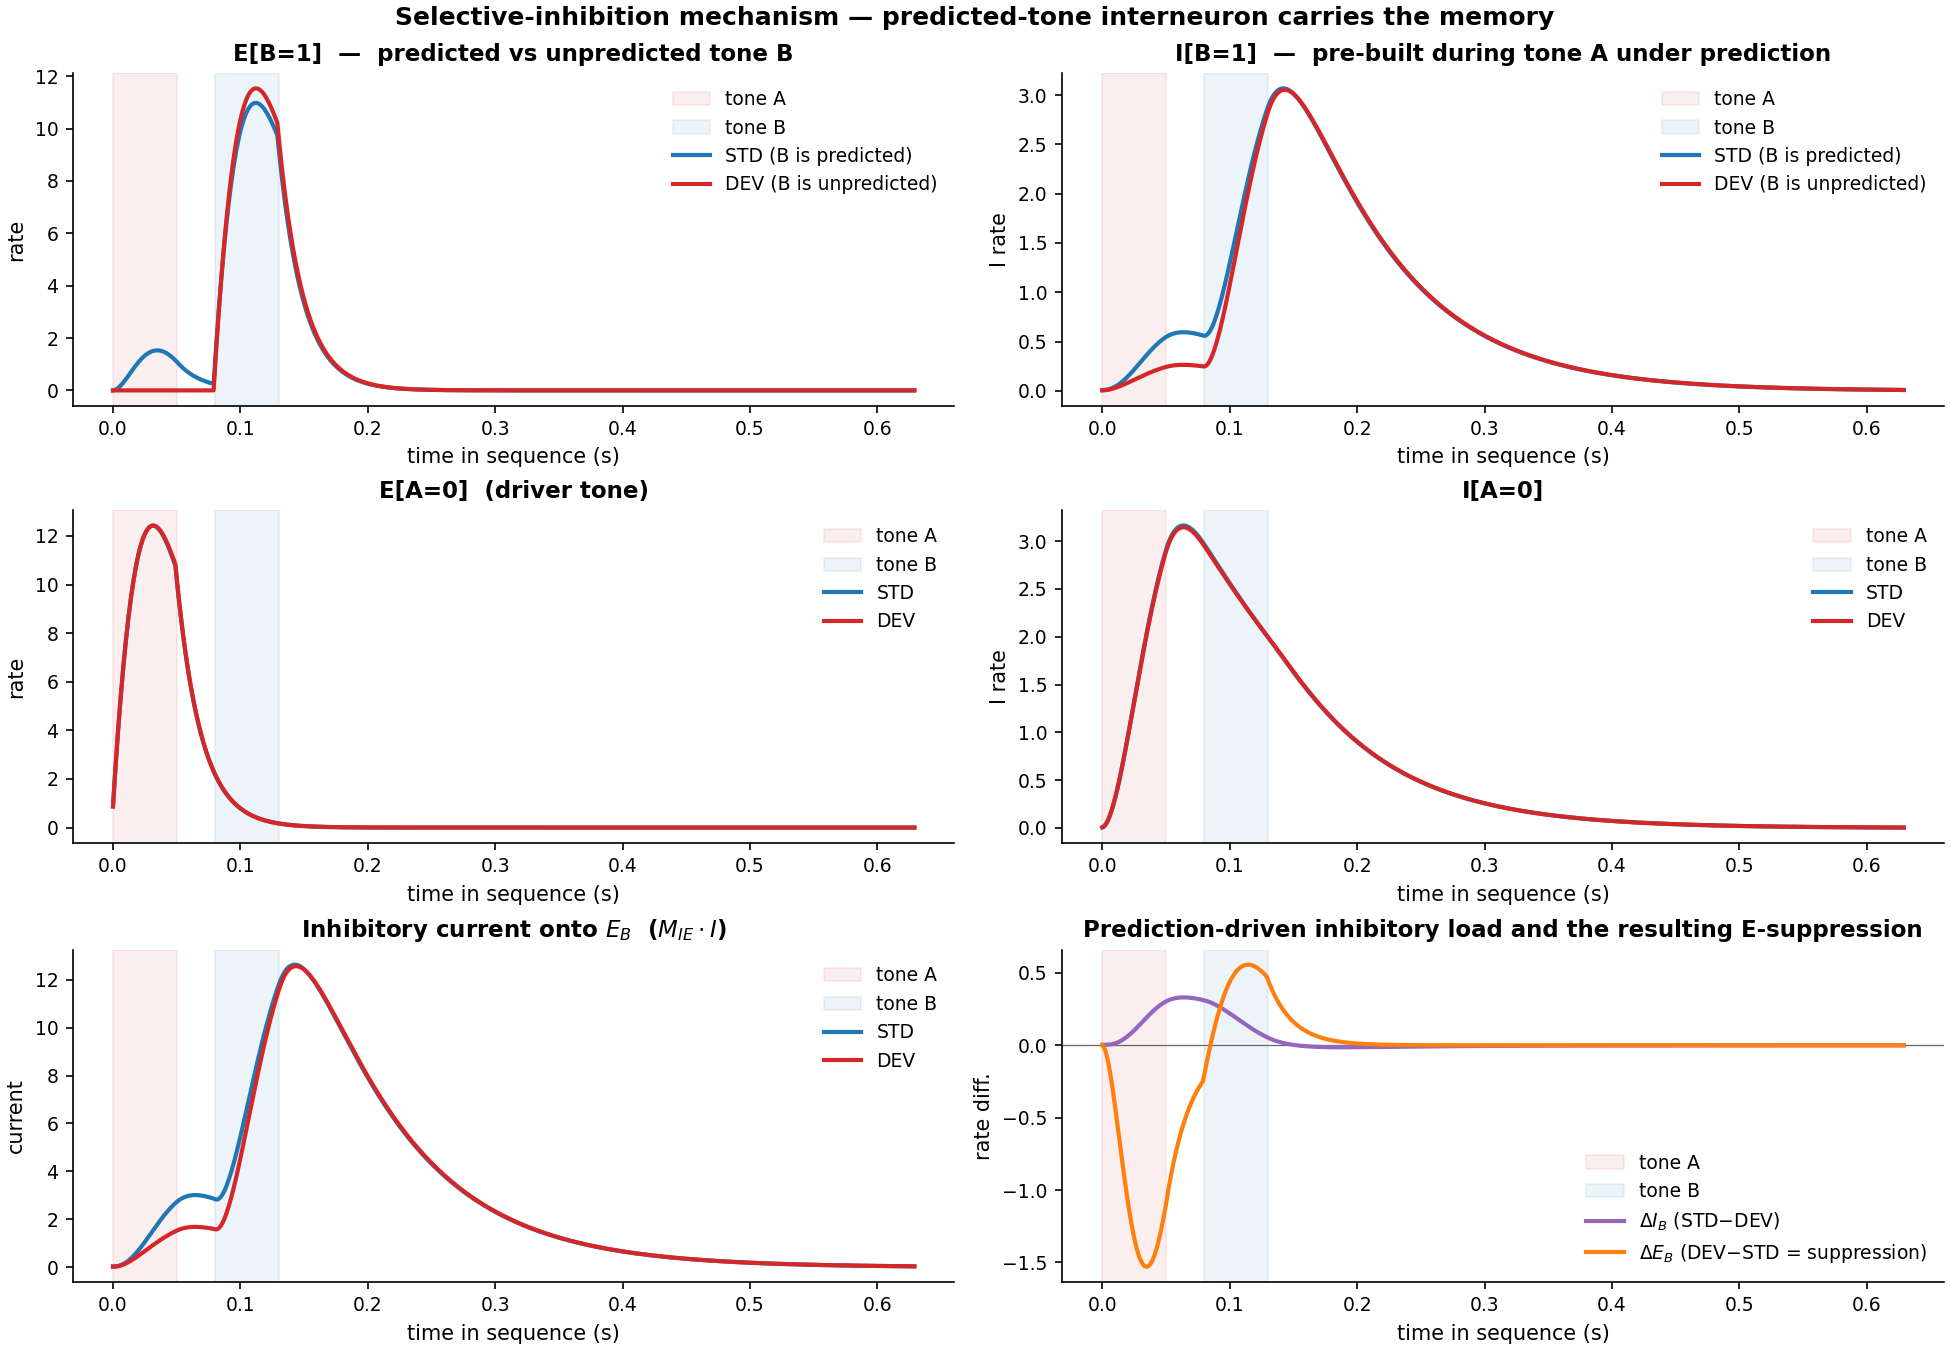
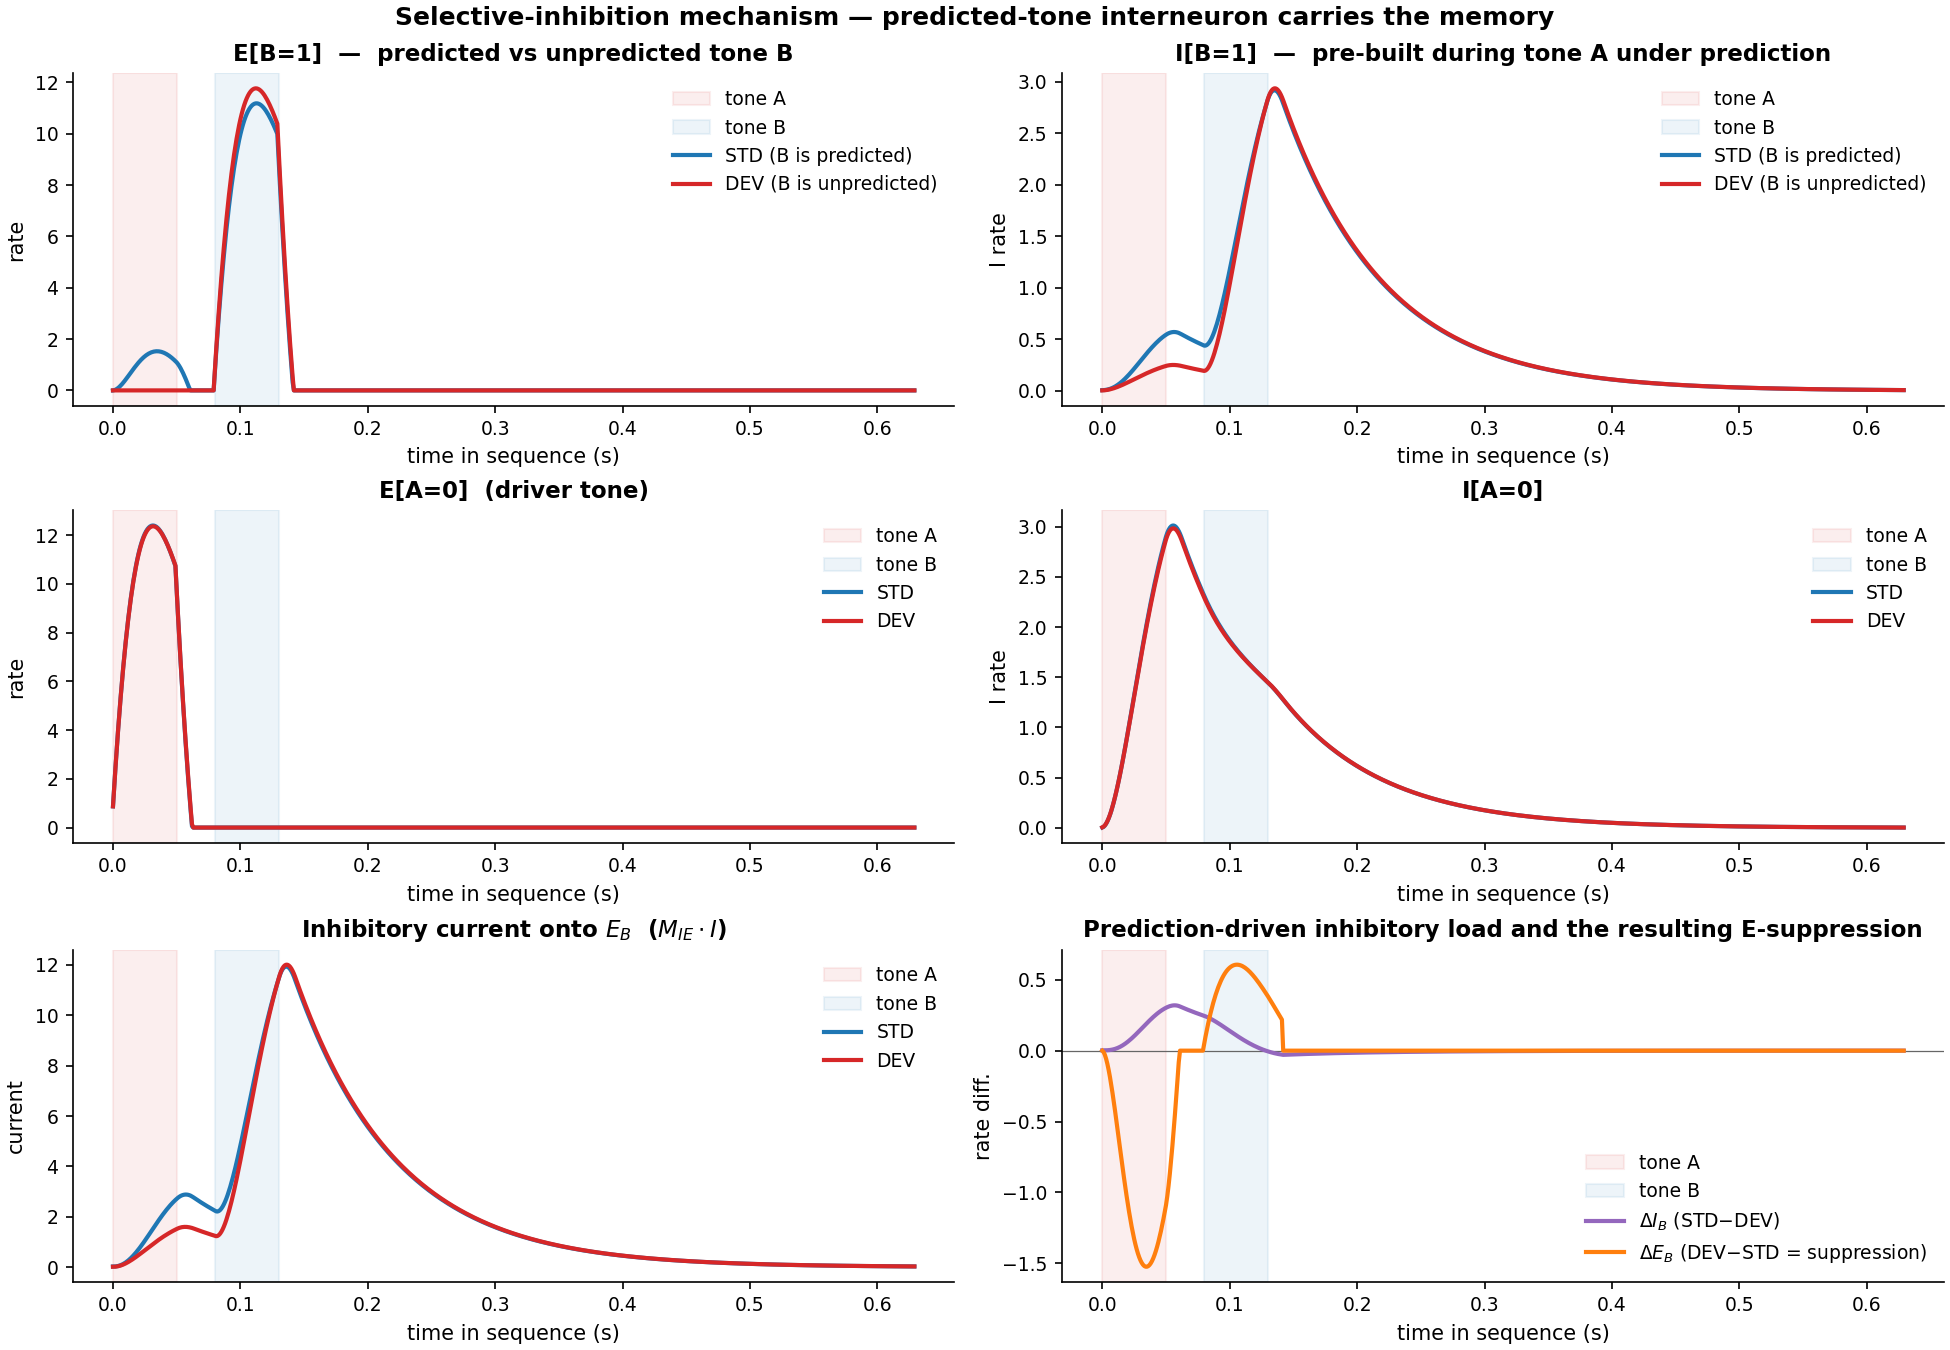
model0: apply the rectifier to the firing rate, not the net input
Move the relu from inside net_E to a post-step clamp on E:
    before:  tau_E dE/dt = -E + relu(tm + rec - inh)
    after:   tau_E dE/dt = -E + (tm + rec - inh);  E := relu(E)

Rationale: in the relu-on-input form, inhibition's effect saturates
once net_E reaches zero -- any further inhibition is wasted, and a
net-negative cell only decays at the fixed leak rate 1/tau_E.  With
the relu on the rate, inhibition enters dE/dt directly, so it acts on
the firing rate itself and its effect is graded all the way down
(strong/shunting inhibition silences a cell faster than the leak --
the biophysically correct behaviour).

No parameter retuning needed.  The two forms are identical whenever
net_E > 0, and the tone-B response sits at net_E > 0 (TC drive
dominates), so the MMN is preserved:

    metric        relu-on-input   relu-on-rate
    peak MMN         +4.8%          +5.0%
    mean MMN         +4.1%          +5.1%
    W[B<-A]           0.25           0.25  (saturates, unchanged)

The mean MMN sharpened slightly because OFF-transients (where
net_E < 0) now decay faster -- the only regime where the two forms
differ.  Steady states are identical by construction.

Change is confined to model0; the I equation is untouched (its relu
is a no-op since M_EI @ E >= 0 always).

diff --git a/model0/model.py b/model0/model.py
@@ -15,8 +15,17 @@ State variables (per integration step)
 
 Dynamics
 --------
-    tau_E dE/dt = -E + relu(tm_in + W @ E - M_IE @ I)
+    tau_E dE/dt = -E + (tm_in + W @ E - M_IE @ I);   E := relu(E)
     tau_I dI/dt = -I + relu(M_EI @ E)
+
+The rectifying nonlinearity is applied to the *rate* E (a post-step
+clamp), not to the net input.  Inhibition therefore acts directly on
+the firing rate: a cell driven net-negative is pushed toward zero at a
+speed set by the inhibition magnitude, rather than merely left to decay
+at the leak rate 1/tau_E.  Steady states are unchanged (E_ss = relu of
+the net input); only the suppression transients are sharper.  (The I
+equation keeps relu on the input, but this is a no-op: M_EI has only
+non-negative entries and E >= 0, so M_EI @ E is never negative.)
 
 where M_EI and M_IE are FIXED structured matrices (diag = self-strong,
 off-diag = lateral-weak).
@@ -111,7 +120,9 @@ def simulate(
         net_E = tm_in + rec_E - inh_to_E
         net_I = M_EI @ E                 # each I_i driven mostly by E_i
 
-        dE  = (-E  + _relu(net_E)) / cfg.tau_E
+        # relu is applied to the *rate* E (post-step clamp below), not to
+        # net_E -- so inhibition acts directly on the firing rate.
+        dE  = (-E  + net_E) / cfg.tau_E
         dI  = (-Iv + _relu(net_I)) / cfg.tau_I
         du  = (cfg.U - u) / cfg.tau_F + cfg.U * (1.0 - u) * s
         dx  = (1.0 - x) / cfg.tau_D            - u * x * s
@@ -141,6 +152,7 @@ def simulate(
 
         np.clip(u, 0.0, 1.0, out=u)
         np.clip(x, 0.0, 1.0, out=x)
+        np.clip(E, 0.0, None, out=E)     # relu on the rate: E >= 0
 
         E_h[:,  t]  = E
         I_h[:,  t]  = Iv
